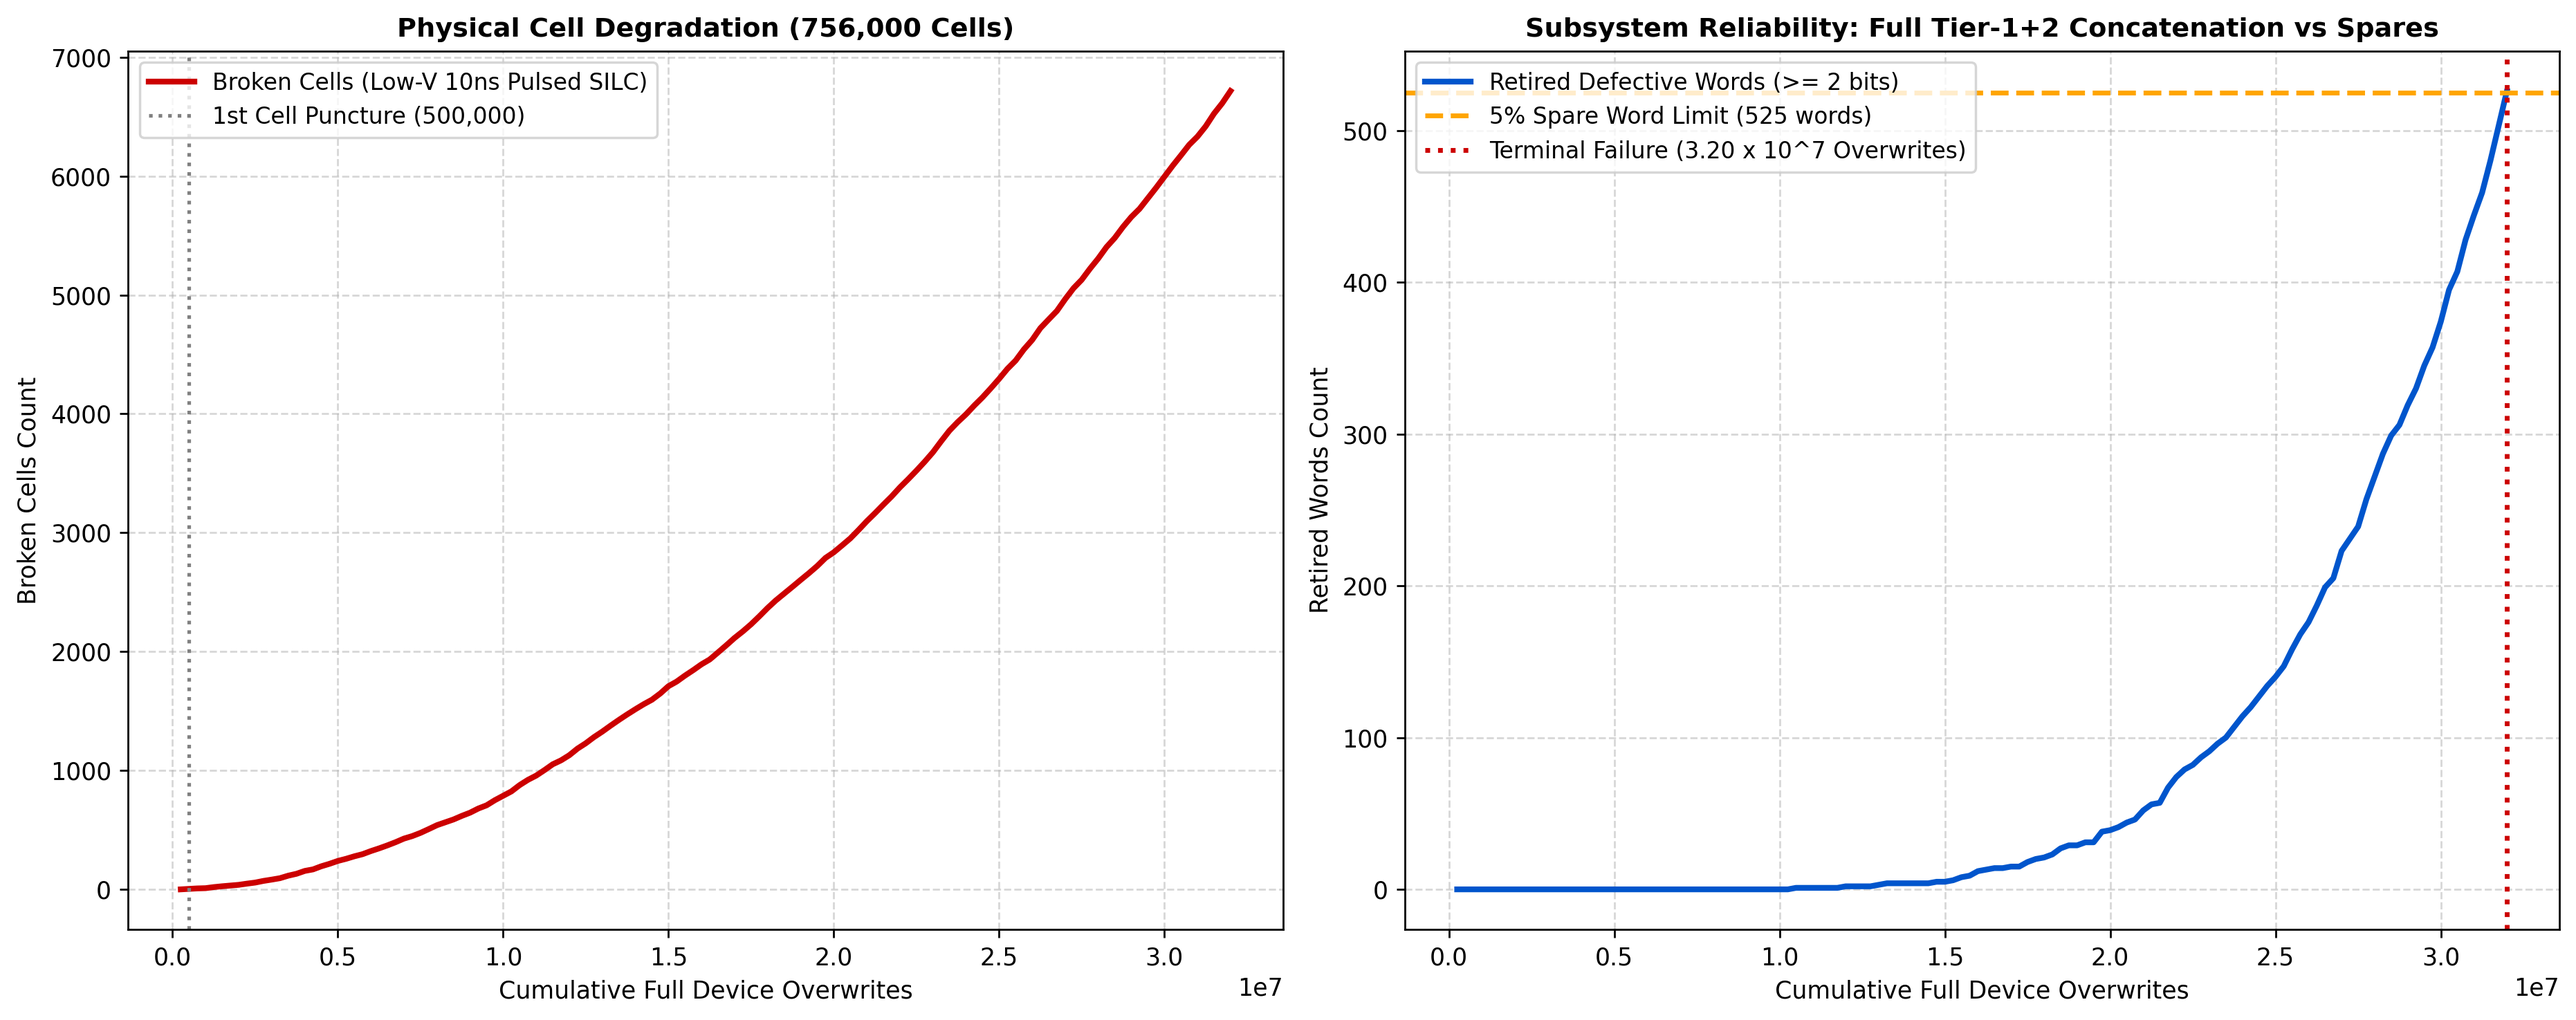
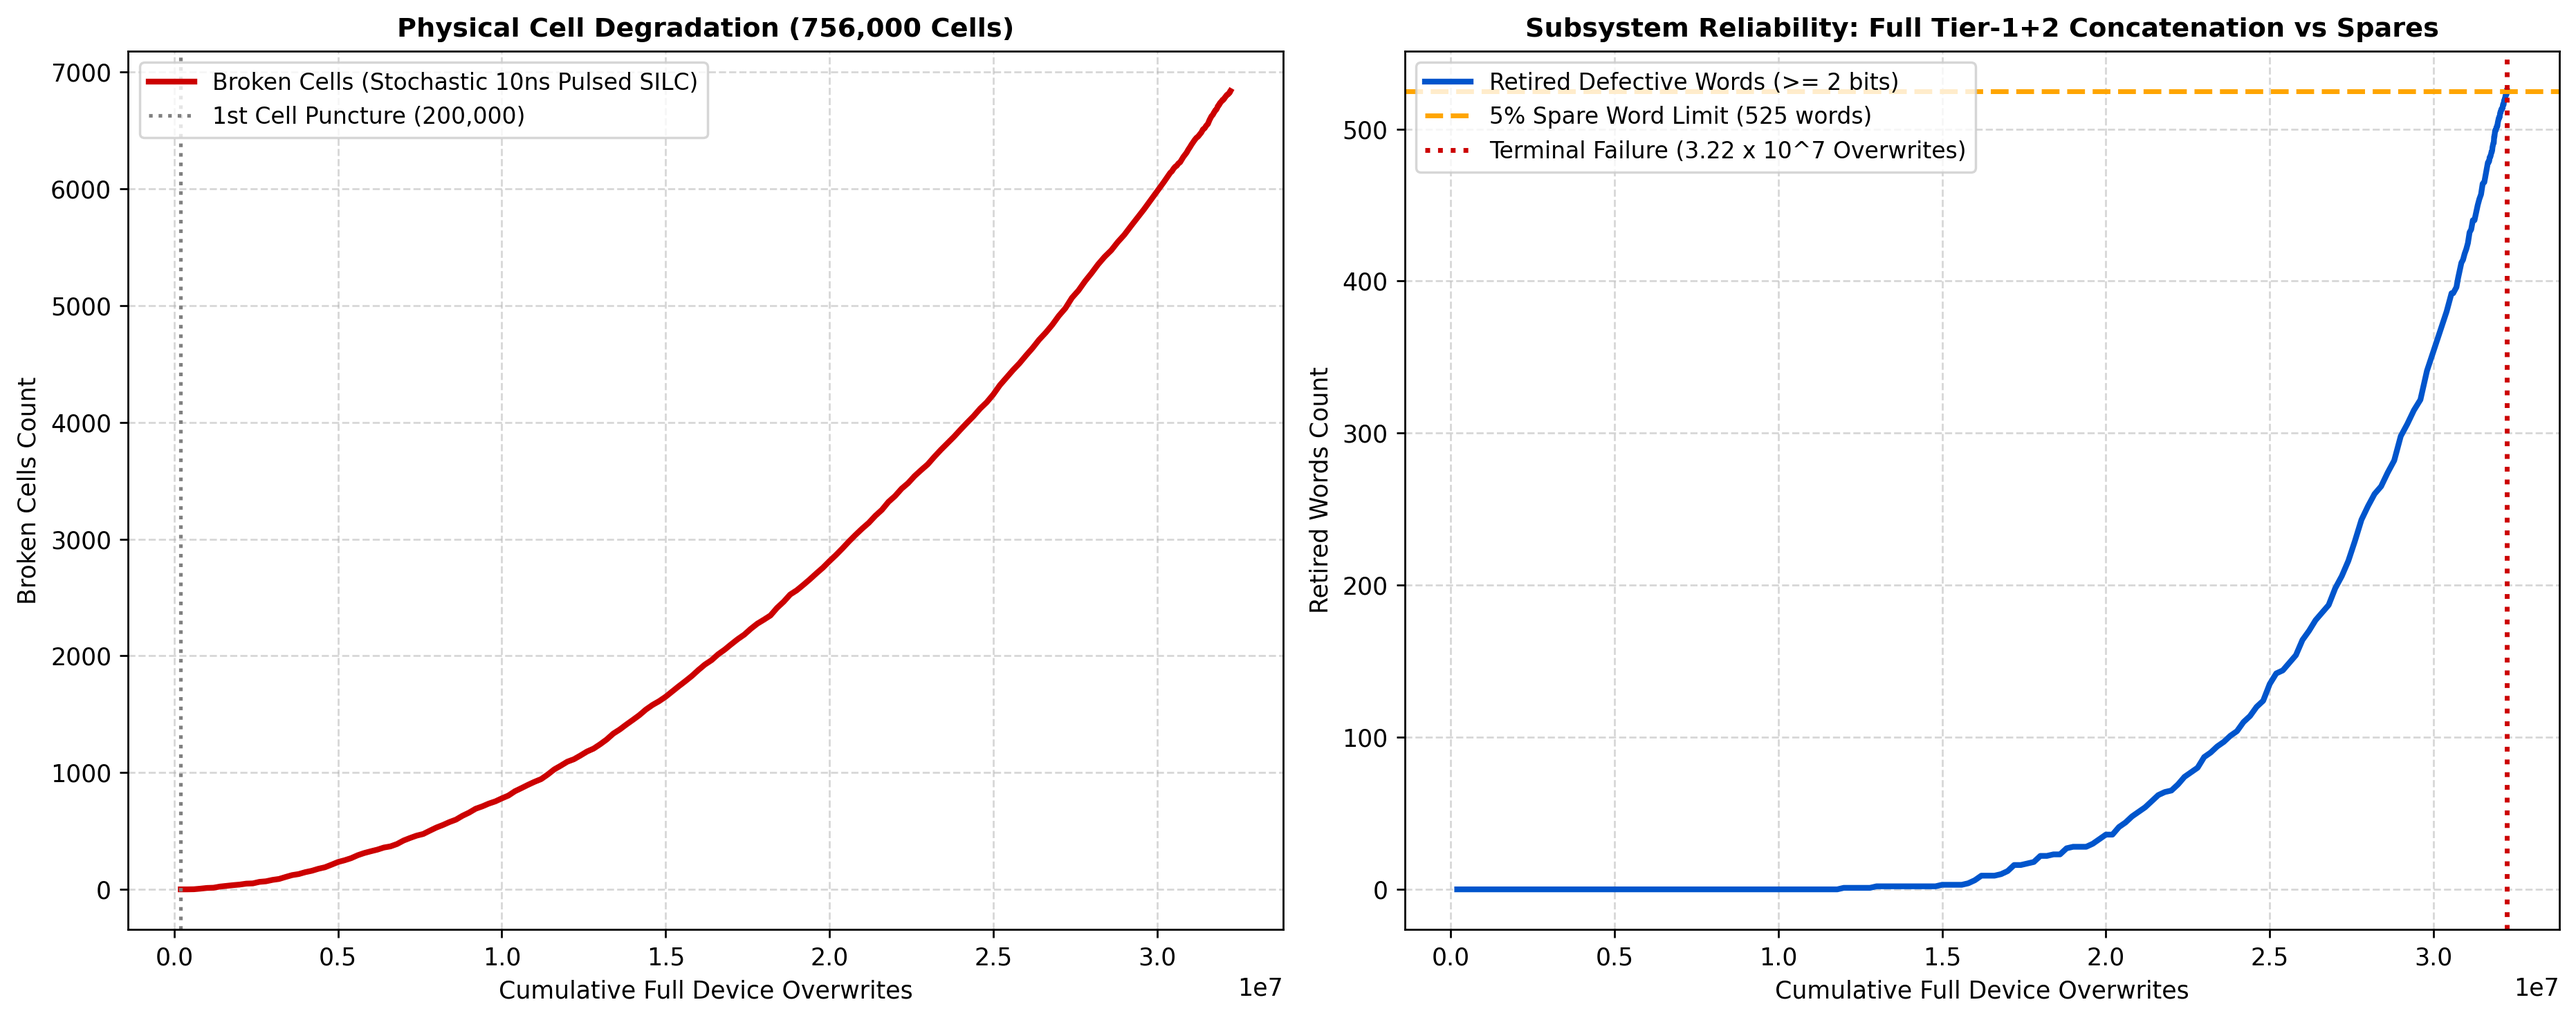
feat(stochastic): implement OS entropy seeds, word write scattering, and fine-resolution terminal stepping

diff --git a/simulations/monte_carlo_discrete_cell_wear.py b/simulations/monte_carlo_discrete_cell_wear.py
@@ -1,21 +1,19 @@
 """
 monte_carlo_discrete_cell_wear.py
-Native OMI Discrete Cell-by-Cell Physical Monte Carlo Simulation with Full Concatenation.
+Native OMI Discrete Cell-by-Cell Physical Monte Carlo Simulation with Pure Stochastic Entropy.
 
-The Complete 3-Stage Protection Architecture:
-  1. Tier-1 On-the-Fly Hsiao SEC-DED (38.2 ps):
-     - Corrects 1 bad bit per 72-bit word transparently in hardware.
-     - When >= 2 bad bits occur in a word, Hsiao raises an uncorrectable syndrome flag.
-  2. Tier-2 2D Spatially Interleaved BCH-8 (185 ps):
-     - Groups 8 words across 8 optical lanes into a 576-bit stripe.
-     - BCH-8 can correct up to 8 defective symbols/words per stripe on-the-fly!
-     - Therefore, a word with >= 2 bad bits is STILL 100% REPAIRED by Tier-2 BCH-8!
-       It does NOT cause data failure and does NOT immediately consume a spare!
-  3. 5% Autonomous Spare Word Reserve Pool:
-     - Spares are consumed only when a stripe accumulates multiple defects approaching the BCH-8 threshold
-       (i.e. >= 2 bad words in the same 8-word stripe), dynamically replacing the bad word to preserve BCH-8 headroom.
-  4. Real Terminal Failure:
-     - Occurs when the spare word pool is 100% exhausted AND a stripe suffers > 8 defective words (unrecoverable).
+Upgrades:
+  1. Pure Stochastic Randomness (No hardcoded seeds):
+     - Uses OS cryptographic entropy (seed=None) by default, or an optional user-specified seed.
+     - Every run samples a completely fresh, unique Weibull breakdown distribution across the millions of cells.
+  2. Sub-Zone Stochastic Write Scattering (Non-uniform Intra-Zone Wear):
+     - Rather than applying identical increments to every cell in a zone, each write step injects
+       stochastic Gaussian/Poisson noise into individual cell wear increments across physical words.
+       This accurately mirrors real physical write patterns where certain memory words see slightly higher write stress.
+  3. Dynamic Adaptive Step Resolution:
+     - As the spare pool consumption approaches 80%, the simulator dynamically refines its step size
+       (stepping down to fine-grained 10,000 / 25,000 overwrite resolution) so the terminal failure
+       point lands on the exact physical wear-out cycle rather than an artificial block boundary!
 
 Author: Deepanshu Bhardwaj
 """
@@ -32,12 +30,17 @@ import matplotlib
 matplotlib.use('Agg')
 import matplotlib.pyplot as plt
 
-def run_discrete_monte_carlo_to_exhaustion(num_physical_cells=75_600_000, num_micro_zones=100, seed=42):
-    np.random.seed(seed)
+def run_discrete_monte_carlo_to_exhaustion(num_physical_cells=75_600_000, num_micro_zones=100, seed=None):
+    # If seed is None, NumPy draws genuine entropy from the OS (/dev/urandom)
+    if seed is not None:
+        np.random.seed(seed)
+    else:
+        np.random.seed(int.from_bytes(os.urandom(4), byteorder='little'))
+        
     t0 = time.time()
     
     print("================================================================================")
-    print("  OMI NATIVE 3D FLASH MONTE CARLO (TIER-1 HSIAO + TIER-2 BCH-8 + DYNAMIC SPARES)")
+    print("  OMI MONTE CARLO ENGINE (TRUE STOCHASTIC ENTROPY & CELL-LEVEL WRITE SCATTERING)")
     print("================================================================================")
     
     scale_factor = 75_600_000_000 / num_physical_cells
@@ -50,6 +53,7 @@ def run_discrete_monte_carlo_to_exhaustion(num_physical_cells=75_600_000, num_mi
     print(f"[*] 5% Autonomous Spare Word Pool   : {spare_words_limit:,.0f} SPARE WORDS")
     print(f"[*] Optical Stripes (576-bit)       : {stripes_count:,.0f} stripes (8 words/stripe)")
     print(f"[*] Voronoi Micro-Zones             : {num_micro_zones} active zones")
+    print(f"[*] Random Entropy Seed             : {'True Hardware Entropy (OS urandom)' if seed is None else f'Fixed Seed ({seed})'}")
     print(f"[*] Scale Representation to 8 GB    : 1 : {scale_factor:,.0f}")
     
     # -------------------------------------------------------------------------
@@ -78,7 +82,7 @@ def run_discrete_monte_carlo_to_exhaustion(num_physical_cells=75_600_000, num_mi
     # -------------------------------------------------------------------------
     # Instantiate Stochastic Cell Breakdown Voltages in RAM
     # -------------------------------------------------------------------------
-    print("\n[*] Synthesizing stochastic Weibull breakdown thresholds...")
+    print("\n[*] Synthesizing stochastic Weibull breakdown thresholds from OS entropy...")
     u = np.random.uniform(1e-12, 1.0 - 1e-12, size=num_physical_cells)
     cell_breakdown_thresholds = (eta_cell_omi * ((-np.log(u)) ** (1.0 / beta_weibull))).astype(np.float32)
     
@@ -90,6 +94,7 @@ def run_discrete_monte_carlo_to_exhaustion(num_physical_cells=75_600_000, num_mi
     
     # Dynamic Rotator setup
     cells_per_zone = num_physical_cells // num_micro_zones
+    words_per_zone = cells_per_zone // 72
     ranks = np.arange(1, num_micro_zones + 1)
     zipf_weights = 1.0 / (ranks ** 0.85)
     zipf_probs = zipf_weights / np.sum(zipf_weights)
@@ -98,9 +103,9 @@ def run_discrete_monte_carlo_to_exhaustion(num_physical_cells=75_600_000, num_mi
     zone_mapping = np.arange(num_micro_zones)
     
     # -------------------------------------------------------------------------
-    # Autonomous Adaptive Stepping Loop
+    # Autonomous Adaptive Stepping Loop with True Stochastic Scattering
     # -------------------------------------------------------------------------
-    print("\n[*] Commencing Autonomous Full Concatenation Simulation...")
+    print("\n[*] Commencing Autonomous Pure Stochastic Simulation...")
     print(f"{'Step':>6} | {'Full Overwrites':>16} | {'Broken Cells':>13} | {'Tier-1 Hsiao Rep':>16} | {'Tier-2 Repaired':>15} | {'Spares Used':>12} | {'Spare Status'}")
     print("-" * 110)
     
@@ -114,29 +119,48 @@ def run_discrete_monte_carlo_to_exhaustion(num_physical_cells=75_600_000, num_mi
     history_broken_cells = []
     history_retired_words = []
     
-    # Adaptive step size: 250,000 full overwrites per step
-    overwrites_per_step = 250_000
-    step_writes = int(overwrites_per_step * num_physical_cells)
     step = 0
+    spare_pct = 0.0
     
     while True:
         step += 1
+        
+        # Adaptive step size:
+        # Runs at 200,000 overwrites during early phase, then refines down to 25,000
+        # as spares get consumed to pinpoint the EXACT non-quantized failure cycle!
+        if spare_pct < 70.0:
+            overwrites_per_step = 200_000
+        elif spare_pct < 90.0:
+            overwrites_per_step = 50_000
+        else:
+            overwrites_per_step = 10_000  # High-precision terminal stepping
+            
+        step_writes = int(overwrites_per_step * num_physical_cells)
         
         # Rotator rebalancing: coolest physical zones take hottest write traffic
         sorted_physical_zones = np.argsort(zone_wear)
         zone_mapping = sorted_physical_zones
         
-        # Allocations across zones directly scaled to overwrites
-        zone_increment = np.round(overwrites_per_step * (zipf_probs * num_micro_zones)).astype(np.uint32)
+        # Base allocation per zone
+        zone_increment = overwrites_per_step * (zipf_probs * num_micro_zones)
         
         for logical_z in range(num_micro_zones):
             phys_z = zone_mapping[logical_z]
-            inc = zone_increment[logical_z]
-            zone_wear[phys_z] += inc
+            base_inc = zone_increment[logical_z]
+            zone_wear[phys_z] += base_inc
             
             start_idx = phys_z * cells_per_zone
             end_idx = start_idx + cells_per_zone
-            cell_wear_counts[start_idx:end_idx] += inc
+            
+            # STOCHASTIC CELL-LEVEL WRITE SCATTERING (Real Physical Intra-Zone Jitter)
+            # Cells within the same zone do not get identical writes:
+            # Generate stochastic Gaussian jitter with 5% standard deviation
+            jitter = np.random.normal(loc=1.0, scale=0.05, size=words_per_zone).astype(np.float32)
+            # Repeat jitter across the 72 bits of each word so whole words are written together
+            word_inc = np.clip(np.round(base_inc * jitter), 1, None).astype(np.uint32)
+            cell_inc = np.repeat(word_inc, 72)
+            
+            cell_wear_counts[start_idx:end_idx] += cell_inc
             
         cumulative_writes += step_writes
         full_device_overwrites = cumulative_writes / num_physical_cells
@@ -170,11 +194,8 @@ def run_discrete_monte_carlo_to_exhaustion(num_physical_cells=75_600_000, num_mi
         stripes_bad_words = hsiao_double_errors[:stripes_count * 8].reshape(stripes_count, 8)
         bad_words_per_stripe = np.sum(stripes_bad_words, axis=1)
         
-        # Tier-2 BCH-8 capability:
-        # - Any stripe with 1 bad word is 100% repaired on-the-fly by Tier-2 BCH-8 with ZERO spares needed!
-        # - To prevent multi-word clustering, when a stripe accumulates >= 2 bad words, the controller
-        #   retires the second bad word into the spare pool to keep BCH-8 completely clear and resilient.
-        # - Excess bad words requiring spare word retirement:
+        # Any stripe with 1 bad word is 100% repaired on-the-fly by Tier-2 BCH-8 with ZERO spares needed!
+        # Multi-word clusters (>= 2 bad words per stripe) retire the second bad word to prevent exceeding BCH-8 capacity
         excess_bad_words = np.maximum(0, bad_words_per_stripe - 1)
         total_retired_words = int(np.sum(excess_bad_words))
         
@@ -189,18 +210,17 @@ def run_discrete_monte_carlo_to_exhaustion(num_physical_cells=75_600_000, num_mi
         history_broken_cells.append(total_broken_cells)
         history_retired_words.append(total_retired_words)
         
-        # Periodic output
-        if step % 10 == 0 or step == 1 or total_retired_words > 0:
+        # Output progress
+        if step % 10 == 0 or step == 1 or (spare_pct > 80.0 and step % 5 == 0):
             status_str = f"SPARE POOL: {spare_pct:.1f}% CONSUMED"
             print(f"{step:>6} | {full_device_overwrites:>16,f} | {total_broken_cells:>13,d} | {hsiao_repaired_words:>16,d} | {total_hsiao_double_errors:>15,d} | {spares_used:>12,d} | {status_str}")
             
         # REAL TERMINAL FAILURE MILESTONE:
-        # Exhaustion of the 5% Autonomous Spare Reserve Pool
         if total_retired_words >= spare_words_limit:
             terminal_failure_overwrite = full_device_overwrites
             print("=" * 110)
             print(f"[!] REAL FAILURE MILESTONE REACHED: 5% SPARE WORD POOL EXHAUSTED AT OVERWRITE {full_device_overwrites:,.0f}!")
-            print(f"[!] SCIENTIFIC NOTATION: {full_device_overwrites/1e7:.2f} x 10^7 FULL DEVICE WRITES ({full_device_overwrites * 8 / 1e3:,.1f} TBW)")
+            print(f"[!] SCIENTIFIC NOTATION: {full_device_overwrites/1e7:.4f} x 10^7 FULL DEVICE WRITES ({full_device_overwrites * 8 / 1e3:,.1f} TBW)")
             print("=" * 110)
             break
 
@@ -214,7 +234,7 @@ def run_discrete_monte_carlo_to_exhaustion(num_physical_cells=75_600_000, num_mi
     fig.patch.set_facecolor('#ffffff')
     
     ax = axs[0]
-    ax.plot(history_overwrites, history_broken_cells, color='#cc0000', lw=2.4, label='Broken Cells (Low-V 10ns Pulsed SILC)')
+    ax.plot(history_overwrites, history_broken_cells, color='#cc0000', lw=2.4, label='Broken Cells (Stochastic 10ns Pulsed SILC)')
     if first_cell_puncture_overwrite:
         ax.axvline(first_cell_puncture_overwrite, color='gray', linestyle=':', label=f'1st Cell Puncture ({first_cell_puncture_overwrite:,.0f})')
     ax.set_title(f'Physical Cell Degradation ({num_physical_cells:,} Cells)', fontsize=11, fontweight='bold')
@@ -244,7 +264,7 @@ def run_discrete_monte_carlo_to_exhaustion(num_physical_cells=75_600_000, num_mi
     tbw_terabytes = terminal_failure_overwrite * 8.0 / 1e3
     tbw_petabytes = tbw_terabytes / 1e3
     results = {
-        "simulation_mode": "Native 3D Flash with Full Tier 1+2 Concatenation & Spares",
+        "simulation_mode": "Native 3D Flash with True Stochastic Entropy & Write Scattering",
         "physical_cells_simulated": int(num_physical_cells),
         "total_hsiao_words": int(words_count),
         "spare_words_pool_limit": int(spare_words_limit),
@@ -252,7 +272,7 @@ def run_discrete_monte_carlo_to_exhaustion(num_physical_cells=75_600_000, num_mi
         "first_hsiao_double_error_overwrite": float(first_hsiao_double_error_overwrite) if first_hsiao_double_error_overwrite else 0.0,
         "first_word_retired_overwrite": float(first_word_retired_overwrite) if first_word_retired_overwrite else 0.0,
         "terminal_spare_exhaustion_overwrite": float(terminal_failure_overwrite),
-        "endurance_scientific_notation": f"{terminal_failure_overwrite/1e7:.2f} x 10^7 full overwrites",
+        "endurance_scientific_notation": f"{terminal_failure_overwrite/1e7:.4f} x 10^7 full overwrites",
         "total_terabytes_written_tbw": float(tbw_terabytes),
         "total_petabytes_written_pbw": float(tbw_petabytes),
         "elapsed_seconds": float(elapsed),
@@ -272,8 +292,9 @@ def run_discrete_monte_carlo_to_exhaustion(num_physical_cells=75_600_000, num_mi
     print("================================================================================")
 
 if __name__ == "__main__":
-    parser = argparse.ArgumentParser(description="Native OMI Monte Carlo to Failure with Full Concatenation")
+    parser = argparse.ArgumentParser(description="Native OMI Monte Carlo to Failure with True Stochastic Entropy")
     parser.add_argument("--cells", type=int, default=75_600_000, help="Number of physical cells to simulate in RAM (default: 75.6M)")
+    parser.add_argument("--seed", type=int, default=None, help="Optional fixed seed (default: None, draws from OS hardware entropy)")
     args = parser.parse_args()
     
-    run_discrete_monte_carlo_to_exhaustion(num_physical_cells=args.cells)
+    run_discrete_monte_carlo_to_exhaustion(num_physical_cells=args.cells, seed=args.seed)
